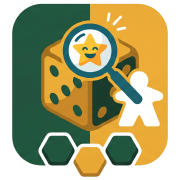
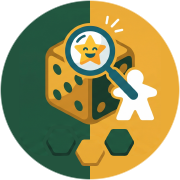
Ein rundes App-Symbol
Das Symbol sass bisher auf einer Kachel, die Android je nach
Startbildschirm selbst zurechtschnitt - mal rund, mal mit abgerundeten
Ecken. An den Raendern blieb die alte Kachelform sichtbar. Die Marke ist
jetzt von sich aus eine Scheibe: links gruen, rechts ocker, das Motiv
mittig darauf, nichts angeschnitten.

Alle icon-*.png und die beiden app-icon-*.png sind neu aus
Board-Game-Recommender_Logo.png gerechnet. Das Logo oben auf der Seite
ist dazu passend rund. Wie das Symbol entsteht und was dabei schiefgehen
kann, steht jetzt in ENTWICKLUNG.md.

Claude-Session: https://claude.ai/code/session_01TEE2VGK7Y2EVfuDspfpgKp

diff --git a/index.html b/index.html
@@ -100,7 +100,7 @@ h1{
 }
 .intro{margin:0; color:var(--muted); max-width:46ch}
 .brand{display:flex; align-items:center; gap:18px}
-.logo{flex:none; width:88px; height:88px; border-radius:18px}
+.logo{flex:none; width:88px; height:88px; border-radius:50%}
 /* Die Sammlung liegt rund drei Bildschirmhoehen weiter unten. Von hier aus
    ist sie einen Tipp entfernt. */
 .kopflink{
@@ -110,7 +110,7 @@ h1{
   display:inline-flex; align-items:center;
 }
 .kopflink:hover{color:var(--ink); border-color:var(--ink)}
-@media (max-width:520px){ .brand{gap:14px} .logo{width:64px; height:64px; border-radius:14px} }
+@media (max-width:520px){ .brand{gap:14px} .logo{width:64px; height:64px} }
 /* ---------- Filter ---------- */
 .panel{
   background:var(--surface); border:1px solid var(--line); border-radius:var(--radius);
@@ -635,7 +635,7 @@ footer .fassung{margin-top:10px; font-size:12px; opacity:.75}
   <footer>
     <p>Spielerzahlen, Dauer und Anspruch sind Erfahrungswerte — unter „Sammlung bearbeiten“ jederzeit korrigierbar.</p>
     <p>Neues Spiel gekauft? Oben ins Regal stellen. Verliehen und nie wiedergesehen? Entfernen.</p>
-    <p class="fassung">Fassung 2.0.1</p>
+    <p class="fassung">Fassung 2.1.0</p>
   </footer>
 </div>
 

diff --git a/ENTWICKLUNG.md b/ENTWICKLUNG.md
@@ -75,6 +75,31 @@ Der Bauplan springt **nur auf Versionsmarken** an (`v*`) und legt dafür je eine
 eigene Veröffentlichung an, die danach unverändert bleibt. „Run workflow" baut
 zum Ausprobieren, ohne zu veröffentlichen.
 
+### Das Symbol
+
+Quelle ist **`Board-Game-Recommender_Logo.png`**; alle `icon-*.png` und die
+beiden `app-icon-*.png` sind daraus gerechnet. Wer eines davon von Hand
+bearbeitet, bekommt beim nächsten Durchlauf Abweichungen.
+
+Die Marke ist eine **Scheibe**: links das Dunkelgrün `(35, 84, 62)`, rechts das
+Ocker `(234, 171, 54)`, Trennlinie genau in der Mitte — dieselbe Zweiteilung wie
+im Logo. Darauf das Motiv, auf **118 % der Kreisdiagonale** skaliert und
+1,5 % nach oben gerückt. Bei diesen Werten ist nichts angeschnitten und der Rand
+bleibt gleichmäßig; sie stammen aus einem Vergleich von 112, 118 und 124 Prozent.
+
+Drei Dinge, die beim Bauen schiefgingen und wieder schiefgehen können:
+
+- **Der helle Rand des Originals muss weg**, sonst zeichnet sein
+  Anti-Aliasing-Saum die Silhouette der alten Kachel in die Scheibe. Flutfüllung
+  vom Bildrand her (Schwelle 225), danach zwei Punkte abtragen. Nach Farbe
+  freistellen geht *nicht*: Der Würfel `(226, 162, 55)` liegt zu dicht am
+  Hintergrund-Ocker.
+- **Erst alles aufbauen, dann die Scheibe ausstanzen.** Das Motiv bringt den
+  Kachelgrund mit — der gehört dazu, muss aber mit abgeschnitten werden.
+- **Die beiden Ebenen des adaptiven Symbols**: Hintergrund trägt die
+  Zweiteilung über die ganze Fläche, damit jede Maskenform nur Markenfarbe
+  zeigt. Sichtbar sind nur die mittleren 66 Prozent.
+
 ### Signatur
 
 **Das Wichtigste am ganzen Bauplan.** Für Android ist die Signatur der Ausweis

diff --git a/CHANGELOG.md b/CHANGELOG.md
@@ -9,6 +9,17 @@ bei x.y.**Z** wird etwas repariert.
 
 ## [Unveröffentlicht]
 
+## [2.1.0] – 2026-10-12
+
+### Geändert
+
+- **Das App-Symbol ist jetzt eine runde Scheibe.** Vorher saß das Motiv auf
+  einer Kachel, die Android je nach Startbildschirm selbst zurechtschnitt —
+  mal rund, mal mit abgerundeten Ecken, und an den Rändern blieb die alte
+  Kachelform sichtbar. Die Marke ist nun von sich aus rund: links grün,
+  rechts ocker, das Motiv mittig darauf, nichts angeschnitten.
+- Das Logo oben auf der Seite ist dazu passend rund statt abgerundet-eckig.
+
 ## [2.0.1] – 2026-10-12
 
 ### Behoben
@@ -270,7 +281,8 @@ Erste gezählte Fassung. Sie fasst zusammen, was bis hierher entstanden ist.
 - Das App-Symbol wurde von Androids runder Maske beschnitten. Vorder- und
   Hintergrund liegen nun als eigene Ebenen vor.
 
-[Unveröffentlicht]: https://github.com/Dr-Nerdlove/Board-Game-Recommender/compare/v2.0.1...HEAD
+[Unveröffentlicht]: https://github.com/Dr-Nerdlove/Board-Game-Recommender/compare/v2.1.0...HEAD
+[2.1.0]: https://github.com/Dr-Nerdlove/Board-Game-Recommender/releases/tag/v2.1.0
 [2.0.1]: https://github.com/Dr-Nerdlove/Board-Game-Recommender/releases/tag/v2.0.1
 [2.0.0]: https://github.com/Dr-Nerdlove/Board-Game-Recommender/releases/tag/v2.0.0
 [1.4.1]: https://github.com/Dr-Nerdlove/Board-Game-Recommender/releases/tag/v1.4.1
